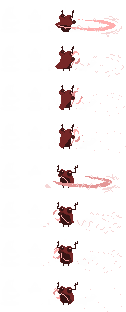
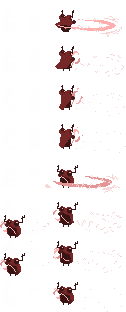
fixed attack animations

Changed region(s): [[0.0, 0.8077, 0.2143, 0.8942], [0.0, 0.6923, 0.1905, 0.7788]]

diff --git a/Assets/Scripts/Player2Movement.cs b/Assets/Scripts/Player2Movement.cs
@@ -14,7 +14,7 @@ public class Player2Movement : MonoBehaviour
 
     void Start()
     {
-        
+
     }
 
     void Update()
@@ -23,19 +23,28 @@ public class Player2Movement : MonoBehaviour
 
         animator.SetFloat("Speed2", Mathf.Abs(horizontalMove));
 
-        if (Input.GetButtonDown("Jump2")){
+        if (Input.GetButtonDown("Jump2")) {
             jump = true;
         }
 
-        if (Input.GetButtonDown("Crouch2")){
+        if (Input.GetButtonDown("Fire2")) {
+            animator.SetBool("isAttacking2", true);
+        }
+
+        if (Input.GetButtonDown("Crouch2")) {
             crouch = true;
         }
-        else if (Input.GetButtonUp("Crouch2")){
+        else if (Input.GetButtonUp("Crouch2")) {
             crouch = false;
         }
     }
 
-    void FixedUpdate () 
+    public void onAttacking2()
+    {
+        animator.SetBool("isAttacking2", false);
+    }
+
+    void FixedUpdate ()
     {
         controller.Move(horizontalMove * Time.fixedDeltaTime, crouch, jump);
         jump = false;

diff --git a/Assets/Scripts/Player1Movement.cs b/Assets/Scripts/Player1Movement.cs
@@ -27,12 +27,21 @@ public class Player1Movement : MonoBehaviour
             jump = true;
         }
 
+        if (Input.GetButtonDown("Fire1")) {
+            animator.SetBool("isAttacking", true);
+        }
+
         if (Input.GetButtonDown("Crouch")){
             crouch = true;
         }
         else if (Input.GetButtonUp("Crouch")){
             crouch = false;
         }
+    }
+
+    public void onAttacking()
+    {
+        animator.SetBool("isAttacking", false);
     }
 
     void FixedUpdate () 
